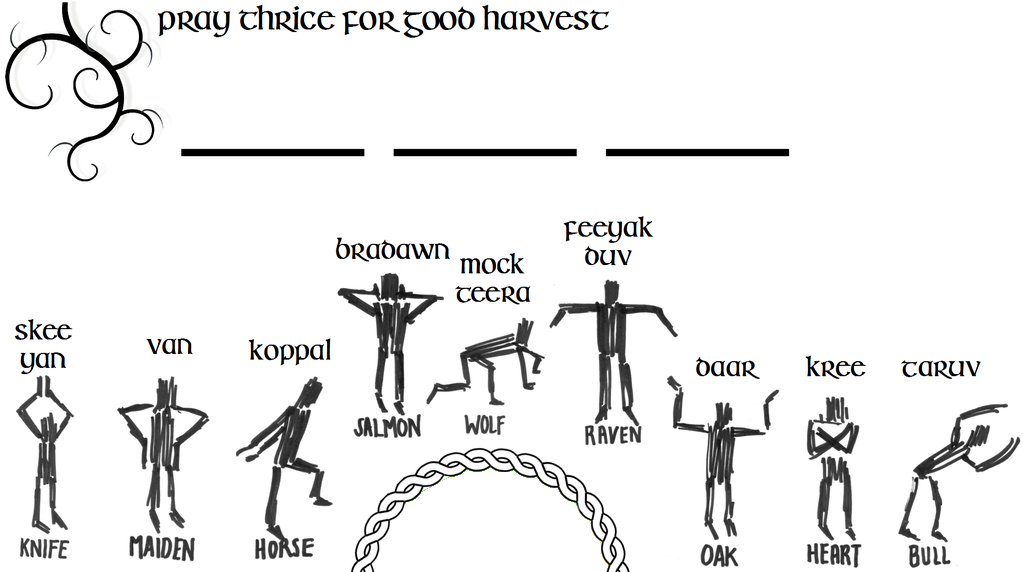
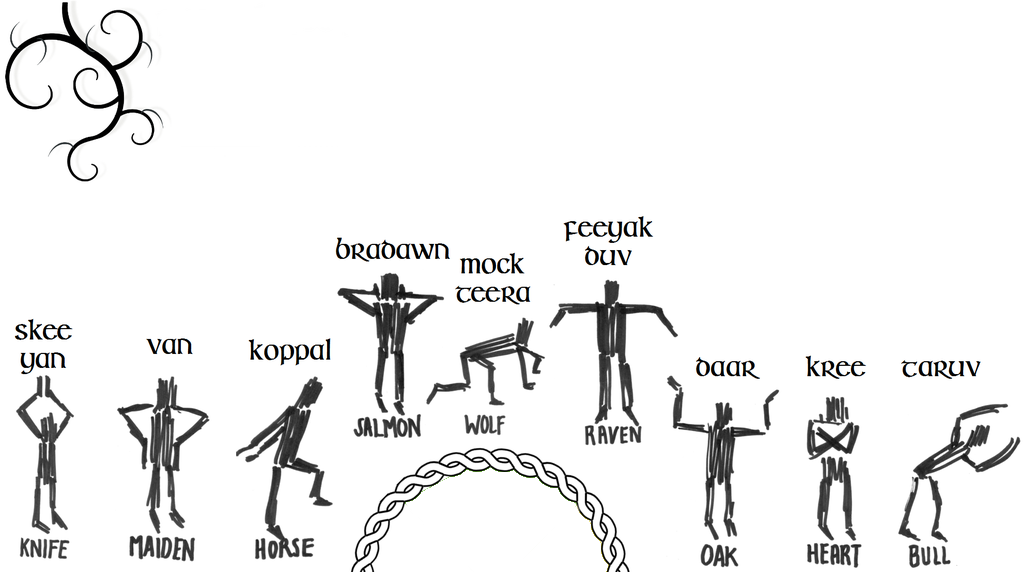
Vibration and prompts
- Implemented vibration mechanism, checkVibrate now returns whether controllers are vibrating

- Ritual screen now has dynamic font and prompts

Changed region(s): [[0.1515, 0.0, 0.6061, 0.0594], [0.3939, 0.2378, 0.7879, 0.2972], [0.1818, 0.2378, 0.3636, 0.2972]]

diff --git a/controller_functions.py b/controller_functions.py
@@ -49,20 +49,22 @@ class cHandler():
 			
 	# TODO: Implement a better calculation here, maybe vector calculation.
 	def checkVibrate(self):
+		vibrateFlag = False
 		for i, (serial, move) in enumerate(sorted(self.moves)):
 			f = move.get_accelerometer_frame(psmove.Frame_SecondHalf)
 			t = f[0]+f[1]+f[2]
 			last = self.lastframes[i][0]+self.lastframes[i][1]+self.lastframes[i][2]
-			if (t - last)> 0.2 or (last-t)> 0.2:
-				print t-last	
+			if (t - last)> 0.2 or (last-t)> 0.2:	
 				move.set_rumble(150)
+				vibrateFlag = True # If it vibrates it's classed as movement
+				print "Check vibrate returning",vibrateFlag
 			else:
 				move.set_rumble(0)
 				
 		self.lastframes=[]
 		for i, (serial, move) in enumerate(sorted(self.moves)):
-			
 			self.lastframes.append(move.get_accelerometer_frame(psmove.Frame_SecondHalf))
+		return vibrateFlag
 		
 	def update(self):
 		# Set colour based on season
